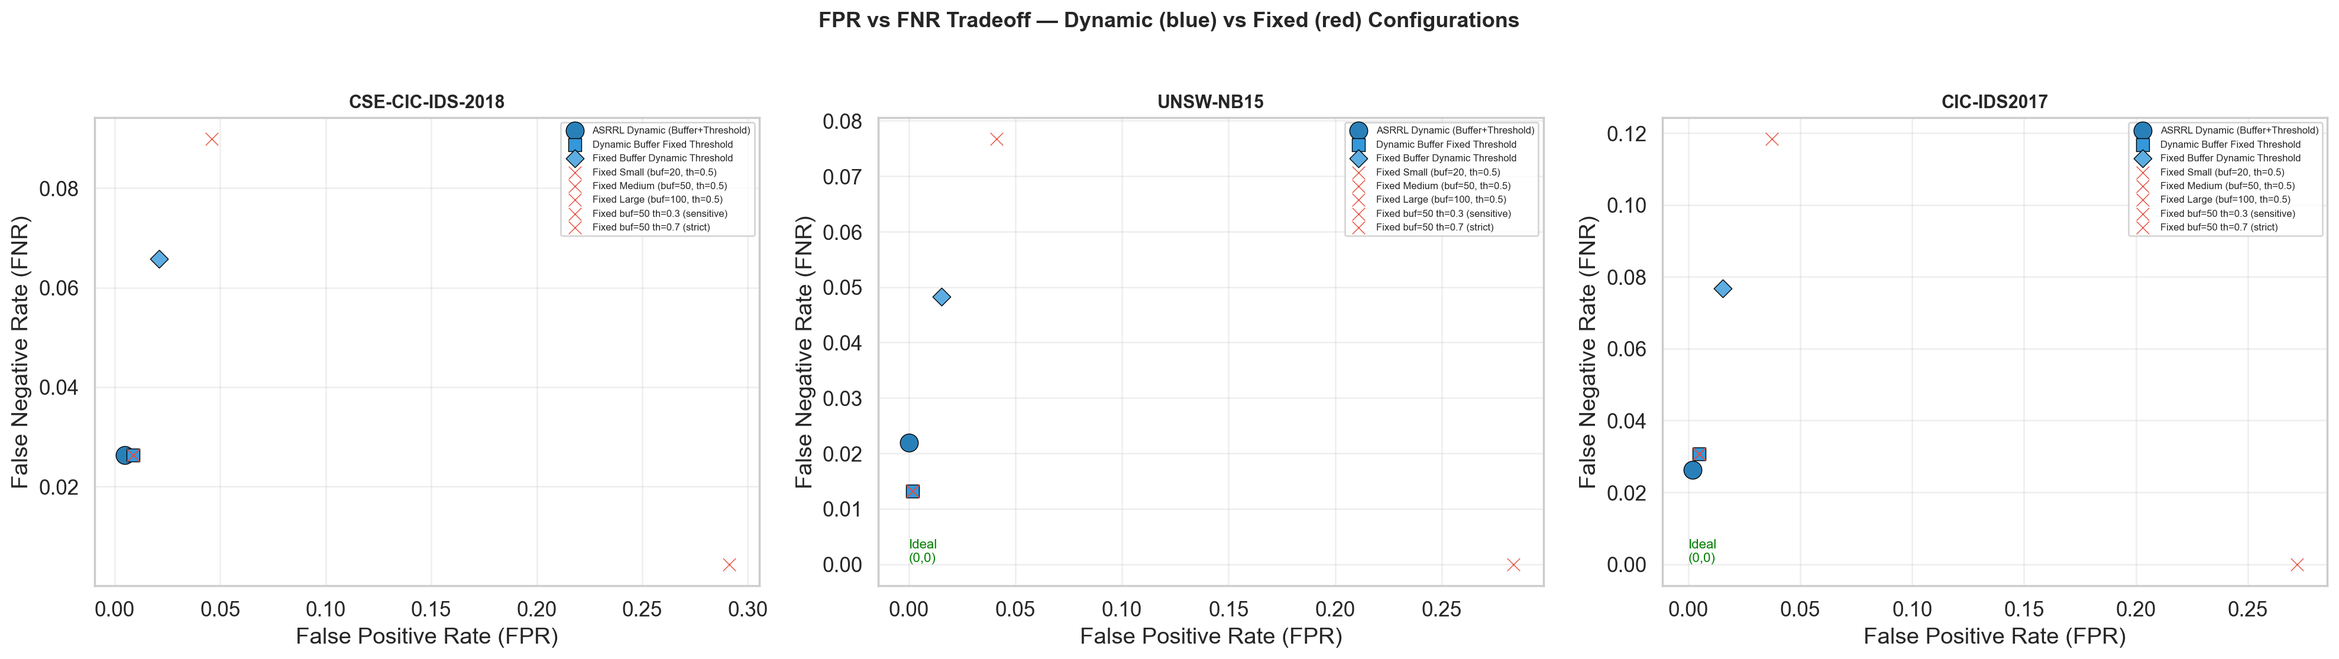
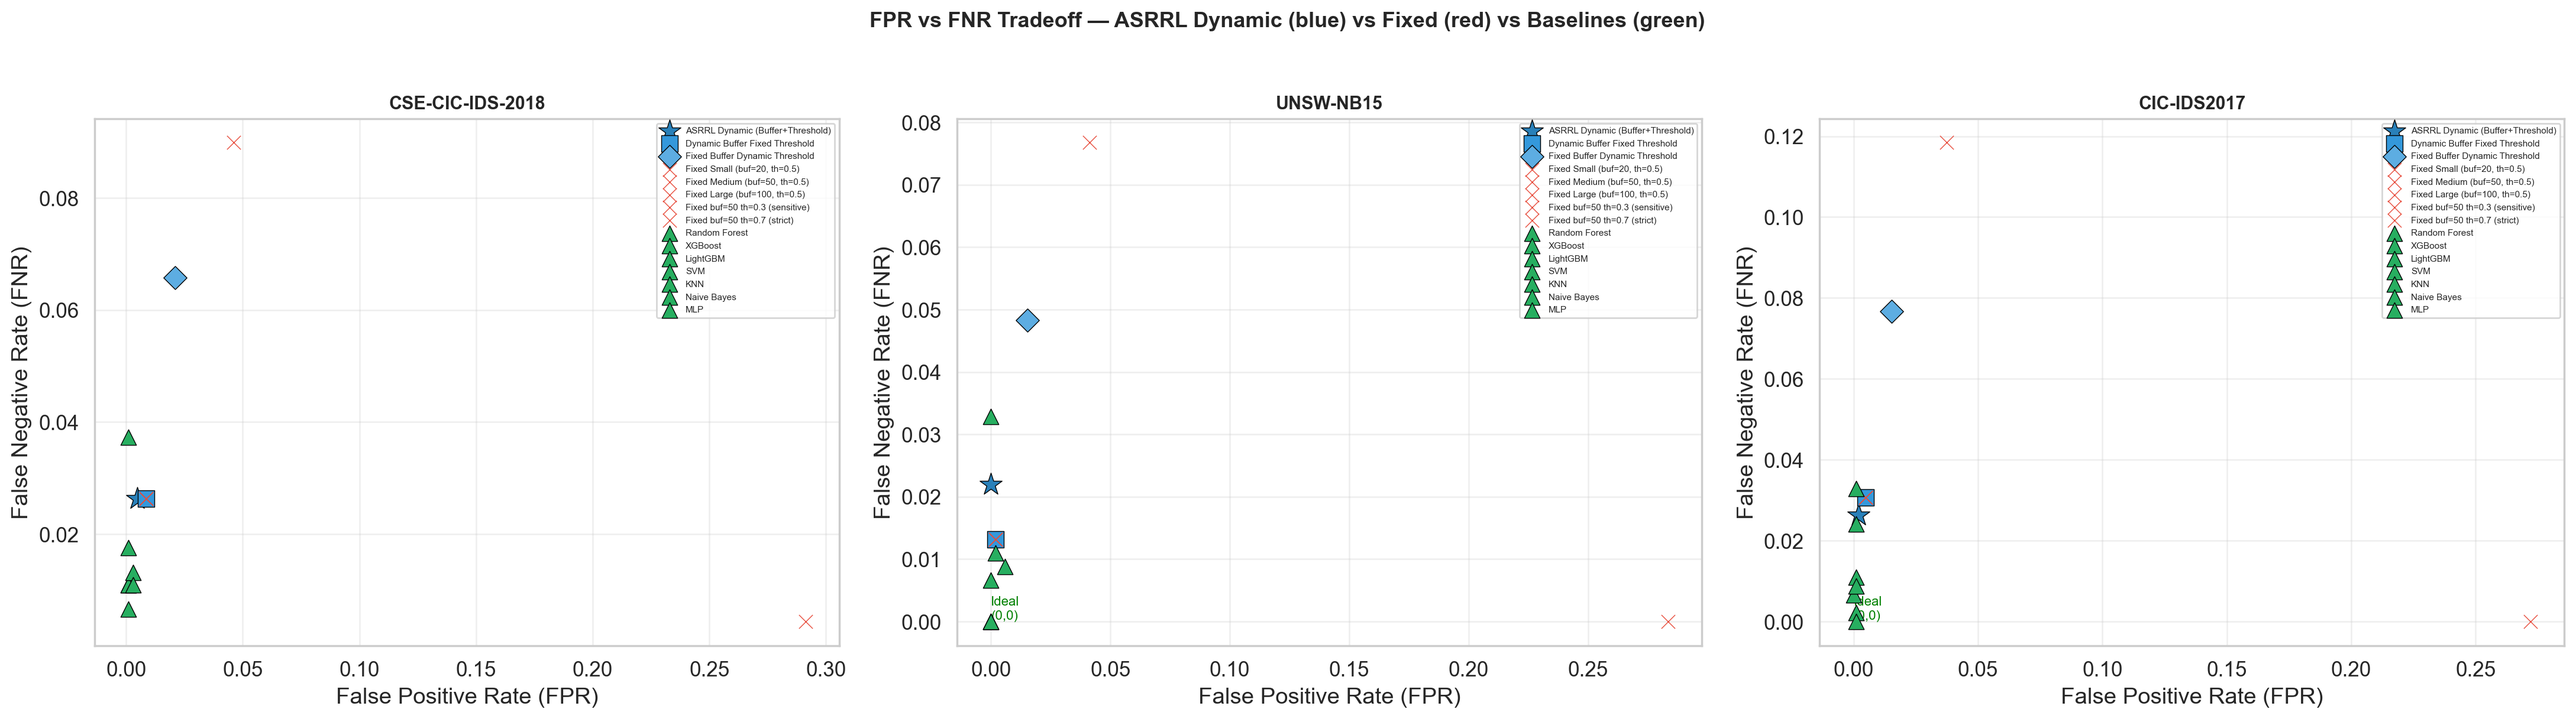
Add baseline model comparison to dynamic buffer evaluation
ASRRL Dynamic with adaptive threshold now compared against all 7 baseline
models (RF, XGBoost, LightGBM, SVM, KNN, Naive Bayes, MLP) under the same
concept-drift test conditions. Updated figures show ASRRL ranking alongside
baselines with color-coded bars (blue=ASRRL adaptive, green=baseline,
red=ASRRL fixed configs).

diff --git a/enhanced_evaluation.py b/enhanced_evaluation.py
@@ -1183,6 +1183,7 @@ def eval_dynamic_buffer(n, epochs=10):
 
         buffer_results[ds] = {}
 
+        # --- ASRRL configurations ---
         for cfg in configs:
             res = run_asrrl_with_buffer(
                 X_train, y_train, X_test, y_test,
@@ -1210,20 +1211,85 @@ def eval_dynamic_buffer(n, epochs=10):
                   f"FPR={m['FPR']:.4f}  FNR={m['FNR']:.4f}  "
                   f"buf_final={res['final_buffer']}  th_final={res['final_threshold']:.2f}")
 
+        # --- Baseline models under same concept-drift conditions ---
+        # Reuse the phase-structured test data from the Full Dynamic run
+        # to evaluate baselines under identical temporal drift
+        full_dyn_res = run_asrrl_with_buffer(
+            X_train, y_train, X_test, y_test,
+            epochs=1, seed=42,
+            buffer_mode="dynamic", threshold_mode="dynamic",
+            fixed_buffer=20, fixed_threshold=0.5,
+        )
+        y_test_ordered = full_dyn_res["y_true"]  # reordered labels with phase structure
+
+        # Build phase-structured X_test to match y_test_ordered
+        rng = np.random.RandomState(42)
+        attack_idx = np.where(y_test == 1)[0]
+        benign_idx = np.where(y_test == 0)[0]
+        rng.shuffle(attack_idx)
+        rng.shuffle(benign_idx)
+        phase_attack_rates = [0.05, 0.25, 0.70, 0.15, 0.60, 0.08]
+        phase_len = len(y_test) // len(phase_attack_rates)
+        ordered_indices = []
+        a_ptr, b_ptr = 0, 0
+        for phase_id, rate in enumerate(phase_attack_rates):
+            n_phase = phase_len if phase_id < len(phase_attack_rates) - 1 else (len(y_test) - len(ordered_indices))
+            n_attacks_needed = int(n_phase * rate)
+            n_benign_needed = n_phase - n_attacks_needed
+            phase_indices = []
+            for _ in range(n_attacks_needed):
+                if a_ptr >= len(attack_idx):
+                    a_ptr = 0
+                    rng.shuffle(attack_idx)
+                phase_indices.append(attack_idx[a_ptr])
+                a_ptr += 1
+            for _ in range(n_benign_needed):
+                if b_ptr >= len(benign_idx):
+                    b_ptr = 0
+                    rng.shuffle(benign_idx)
+                phase_indices.append(benign_idx[b_ptr])
+                b_ptr += 1
+            rng.shuffle(phase_indices)
+            ordered_indices.extend(phase_indices)
+        ordered_indices = np.array(ordered_indices[:len(y_test)])
+        X_test_ordered = X_test[ordered_indices]
+
+        print(f"\n    --- Baseline models (same concept-drift test data) ---")
+        for bname, clf in get_baselines().items():
+            clf_copy = copy.deepcopy(clf)
+            clf_copy.fit(X_train, y_train)
+            preds = clf_copy.predict(X_test_ordered)
+            m = compute_metrics(y_test_ordered, preds)
+            buffer_results[ds][bname] = {
+                **m,
+                "buffer_sizes": [], "thresholds": [], "window_f1s": [],
+                "final_buffer": "N/A", "final_threshold": "N/A",
+                "buffer_mode": "static", "threshold_mode": "static",
+            }
+            print(f"    {bname:<40s}  F1={m['F1']:.4f}  Acc={m['Accuracy']:.4f}  "
+                  f"FPR={m['FPR']:.4f}  FNR={m['FNR']:.4f}")
+
     # Summary
+    _baseline_names = set(get_baselines().keys())
     print(f"\n{'='*80}")
-    print(f"  DYNAMIC vs FIXED — F1 COMPARISON")
+    print(f"  ASRRL DYNAMIC vs ALL — F1 COMPARISON")
     print(f"{'='*80}")
     for ds in DATASETS:
         print(f"\n  {DATASET_LABELS[ds]}:")
         dynamic_f1 = buffer_results[ds]["ASRRL Dynamic\n(Buffer+Threshold)"]["F1"]
-        for name, r in buffer_results[ds].items():
+
+        # Sort by F1 descending for clearer ranking
+        sorted_items = sorted(buffer_results[ds].items(), key=lambda x: x[1]["F1"], reverse=True)
+        for rank, (name, r) in enumerate(sorted_items, 1):
             delta = r["F1"] - dynamic_f1
-            marker = " <-- DYNAMIC" if "Dynamic" in name and "Fixed" not in name.split("\n")[0] else ""
+            clean_name = name.replace(chr(10), ' ')
+            marker = ""
             if name == "ASRRL Dynamic\n(Buffer+Threshold)":
-                marker = " <-- FULL DYNAMIC"
-            print(f"    {name.replace(chr(10), ' '):<40s}  F1={r['F1']:.4f}  "
-                  f"delta={delta:+.4f}{marker}")
+                marker = " <-- ASRRL DYNAMIC"
+            elif clean_name in _baseline_names:
+                marker = " [baseline]"
+            print(f"    #{rank:<2d} {clean_name:<40s}  F1={r['F1']:.4f}  "
+                  f"FPR={r['FPR']:.4f}  FNR={r['FNR']:.4f}  delta={delta:+.4f}{marker}")
 
     return buffer_results
 
@@ -1806,19 +1872,25 @@ def plot_dynamic_buffer(buffer_results):
 
     bdf = pd.DataFrame(rows)
 
-    fig, axes = plt.subplots(1, 3, figsize=(22, 6), sharey=True)
+    # ASRRL config names (have "Dynamic" or "Fixed" or "buf=" in them)
+    asrrl_keywords = ["Dynamic", "Fixed", "buf=", "ASRRL"]
+    baseline_names = set(get_baselines().keys())
+
+    fig, axes = plt.subplots(1, 3, figsize=(22, 8), sharey=True)
     for ax, ds in zip(axes, DATASETS):
         sub = bdf[bdf["Dataset"] == DATASET_LABELS[ds]].sort_values("F1", ascending=True)
         colors = []
         for cfg_name in sub["Configuration"]:
-            if "Dynamic" in cfg_name and "Fixed" not in cfg_name.split("(")[0]:
-                colors.append("#2980b9")
+            if "ASRRL Dynamic" in cfg_name:
+                colors.append("#2980b9")  # primary blue — full dynamic
             elif "Dynamic Buffer" in cfg_name:
                 colors.append("#3498db")
             elif "Dynamic Threshold" in cfg_name:
                 colors.append("#5dade2")
+            elif cfg_name in baseline_names:
+                colors.append("#27ae60")  # green — baseline models
             else:
-                colors.append("#e74c3c")
+                colors.append("#e74c3c")  # red — fixed ASRRL configs
 
         bars = ax.barh(range(len(sub)), sub["F1"].values, color=colors,
                        edgecolor="black", linewidth=0.5)
@@ -1826,14 +1898,14 @@ def plot_dynamic_buffer(buffer_results):
         ax.set_yticklabels(sub["Configuration"].values, fontsize=8)
         ax.set_xlabel("F1 Score")
         ax.set_title(DATASET_LABELS[ds], fontweight="bold", fontsize=11)
-        ax.set_xlim(sub["F1"].min() - 0.02, 1.005)
+        ax.set_xlim(max(0, sub["F1"].min() - 0.03), 1.005)
 
         for bar, val in zip(bars, sub["F1"].values):
             ax.text(bar.get_width() + 0.001, bar.get_y() + bar.get_height()/2,
-                    f"{val:.4f}", va="center", fontsize=8)
+                    f"{val:.4f}", va="center", fontsize=7)
 
-    fig.suptitle("Dynamic vs Fixed Buffer/Threshold — F1 Score Comparison\n"
-                 "(Blue = adaptive, Red = fixed)",
+    fig.suptitle("ASRRL Dynamic vs Fixed Configs vs Baseline Models — F1 Score\n"
+                 "(Blue = ASRRL adaptive, Red = ASRRL fixed, Green = baseline)",
                  fontweight="bold", fontsize=13, y=1.04)
     plt.tight_layout()
     p = os.path.join(OUT_DIR, "12_dynamic_buffer_f1.png")
@@ -1881,31 +1953,36 @@ def plot_dynamic_buffer(buffer_results):
     print(f"  Saved {p}")
 
     # ── Fig 14: FPR/FNR tradeoff across configs ──────────────────────────
-    fig, axes = plt.subplots(1, 3, figsize=(20, 5.5))
+    fig, axes = plt.subplots(1, 3, figsize=(22, 6))
     for ax, ds in zip(axes, DATASETS):
         for name, r in buffer_results.get(ds, {}).items():
-            marker = "o" if "Dynamic" in name and "Fixed" not in name.split("(")[0] else "x"
-            size = 120 if marker == "o" else 60
-            color = "#2980b9" if marker == "o" else "#e74c3c"
-            if "Dynamic Buffer" in name and "Fixed Threshold" in name:
-                color = "#3498db"
-                marker = "s"
-            elif "Fixed Buffer" in name and "Dynamic Threshold" in name:
-                color = "#5dade2"
-                marker = "D"
+            clean_name = name.replace("\n", " ")
+            if "ASRRL Dynamic" in clean_name:
+                marker, size, color = "*", 200, "#2980b9"
+            elif "Dynamic Buffer" in clean_name and "Fixed Threshold" in clean_name:
+                marker, size, color = "s", 100, "#3498db"
+            elif "Fixed Buffer" in clean_name and "Dynamic Threshold" in clean_name:
+                marker, size, color = "D", 100, "#5dade2"
+            elif clean_name in baseline_names:
+                marker, size, color = "^", 90, "#27ae60"
+            elif any(k in clean_name for k in ["Fixed Small", "Fixed Medium", "Fixed Large",
+                                                 "sensitive", "strict"]):
+                marker, size, color = "x", 70, "#e74c3c"
+            else:
+                marker, size, color = "x", 60, "#e74c3c"
+
             ax.scatter(r["FPR"], r["FNR"], s=size, marker=marker, color=color,
                       edgecolors="black", linewidth=0.5, zorder=5,
-                      label=name.replace("\n", " "))
+                      label=clean_name)
         ax.set_xlabel("False Positive Rate (FPR)")
         ax.set_ylabel("False Negative Rate (FNR)")
         ax.set_title(DATASET_LABELS[ds], fontweight="bold", fontsize=11)
-        ax.legend(fontsize=6, loc="upper right")
+        ax.legend(fontsize=5.5, loc="upper right")
         ax.grid(True, alpha=0.3)
-        # Ideal point annotation
         ax.annotate("Ideal\n(0,0)", xy=(0, 0), fontsize=8, color="green",
                     ha="left", va="bottom")
 
-    fig.suptitle("FPR vs FNR Tradeoff — Dynamic (blue) vs Fixed (red) Configurations",
+    fig.suptitle("FPR vs FNR Tradeoff — ASRRL Dynamic (blue) vs Fixed (red) vs Baselines (green)",
                  fontweight="bold", fontsize=13, y=1.02)
     plt.tight_layout()
     p = os.path.join(OUT_DIR, "14_buffer_fpr_fnr_tradeoff.png")
